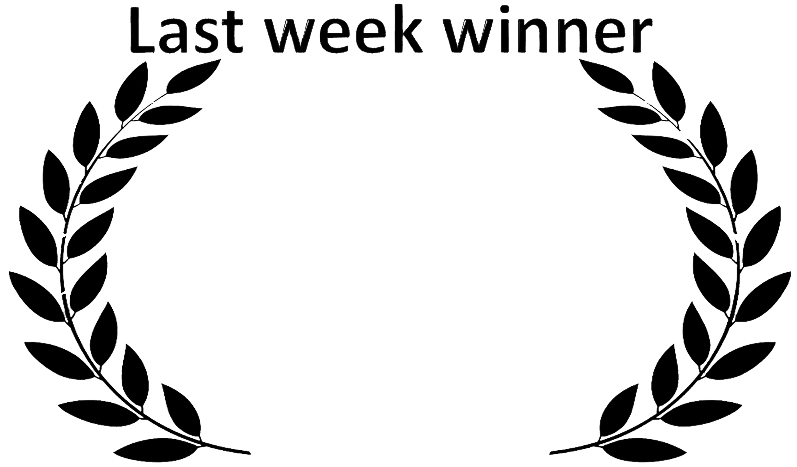
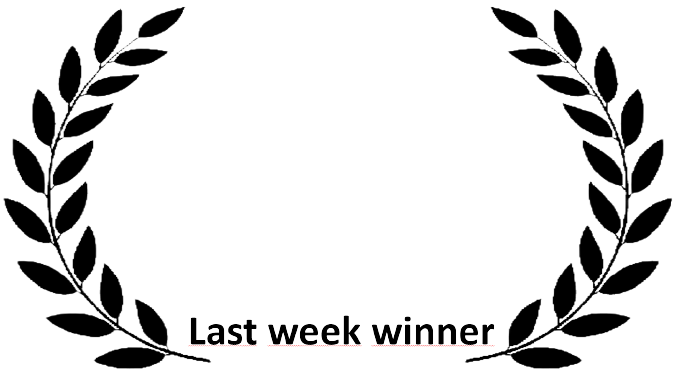
27.01

diff --git a/QUIZ funcionando/style/style.css b/QUIZ funcionando/style/style.css
@@ -17,10 +17,10 @@
 }
 
 #folhaLouro {
-    width: 160px;
+    width: 173px;
     height: 95px;
     position: absolute;
-    left: 120px;
+    left: 187px;
     top: 510px;        
     background-image: url('../img/folha-de-louro.png');
     background-size: contain;
@@ -506,19 +506,30 @@
 
 #credits {
     width: 1100px;
-    height: 50px;
     top: 500px;
     position: relative;
     text-align: right;
-    font-size: 17px;
     margin: auto;
+    
 }
+
+  #location {
+    width: 1100px;
+    position: absolute;
+    top: 37px;
+    left: 75px;
+    font-size: 20px;
+    color: blue;
+    font-weight: bold;
+    font-family:Arial, Helvetica, sans-serif;
+  }
+
     #c-image1 {
         width: 150px;
         height: 35px;
         position: absolute;
-        left: -20px;
-        top: 20px;        
+        left: -23px;
+        top: 25px;        
         background-image: url('../img/ufu.png');
         background-size: contain;
         background-repeat: no-repeat;
@@ -527,18 +538,18 @@
         width: 150px;
         height: 36px;
         position: absolute;
-        left: 250px;
-        top: 20px;        
+        left: 240px;
+        top: 25px;        
         background-image: url('../img/femec.png');
         background-size: contain;
         background-repeat: no-repeat;
     }
     #c-image3 {
-        width: 360px;
+        width: 364px;
         height: 62px;
         position: absolute;
-        left: 490px;
-        top: 10px;
+        left: 485px;
+        top: 13px;
         background-image: url('../img/logoLaprosolsa.png');
         background-size: contain;
         background-repeat: no-repeat;

diff --git a/QUIZ funcionando/index.html b/QUIZ funcionando/index.html
@@ -551,7 +551,9 @@
     <div id="credits">
         <br />
         <br />
-        <b>Brazil, Uberlandia - MG</b>
+        <div id="location">
+            BRAZIL, UBERLANDIA - MG
+        </div>
         <div id="c-image1"></div>
         <div id="c-image2"></div>
         <div id="c-image3"></div>

diff --git a/QUIZ funcionando/arquivosLoginAna/config.php b/QUIZ funcionando/arquivosLoginAna/config.php
@@ -2,11 +2,11 @@
     $dbHost = 'LocalHost'; /* Local Hospedado */
     $dbUsername = 'root'; /* Nome do user, na maioria das vezes é root */
     $dpPassword = '';/*Senha se houver*/ 
-    $dbName= ''; /*Nome do Banco de Dados */
+    $dbName= 'formulario'; /*Nome do Banco de Dados */
     
     $conexao = new mysqli( $dbHost,$dbUsername,$dpPassword, $dbName)
     
-    /* teste de conexão
+    /*testar conexão
     if($conexao-> connect_erro){
         echo "Erro";
     }
